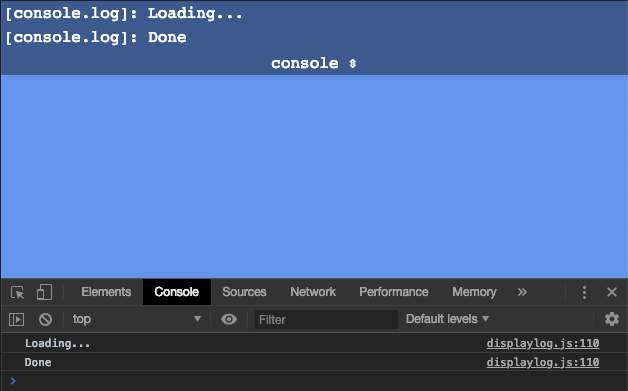
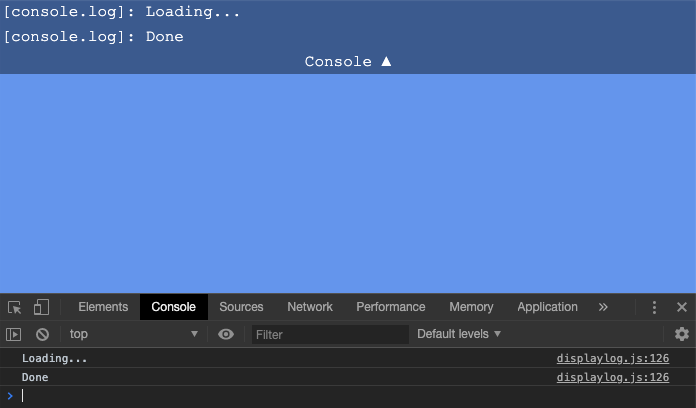
fontFamily support & Cosmetics

diff --git a/dist/displaylog.min.js b/dist/displaylog.min.js
@@ -1,1 +1,1 @@
-function _typeof(n){return(_typeof="function"==typeof Symbol&&"symbol"==typeof Symbol.iterator?function(n){return typeof n}:function(n){return n&&"function"==typeof Symbol&&n.constructor===Symbol&&n!==Symbol.prototype?"symbol":typeof n})(n)}function _defineProperty(n,o,e){return o in n?Object.defineProperty(n,o,{value:e,enumerable:!0,configurable:!0,writable:!0}):n[o]=e,n}!function(n,o){var e,t,r,i,c,l,a,f,u,d,p,s,y,g;void 0!==n&&(n.displayLog=(t={bgColor:"rgba(0, 0, 0, 0.4)",textColor:"#fff",fontSize:"1em",padding:"0.5vw",maxHeight:"30vh",closable:!0},_defineProperty(e={},"log",console.log),_defineProperty(e,"info",console.info),_defineProperty(e,"warn",console.warn),_defineProperty(e,"error",console.error),_defineProperty(e,"clear",console.clear),r=e,i=function(n){var o=c("div");return Object.assign(o.style,{color:n.textColor,backgroundColor:n.bgColor,fontSize:n.fontSize,width:"100vw",position:"fixed",top:"0",overflow:"auto",maxHeight:n.maxHeight,zIndex:Number.MAX_SAFE_INTEGER}),n.closable&&l(o,n),o},c=function(n){return document.createElement(n)},l=function(n,o){var e=c("div");Object.assign(e.style,{textAlign:"center",paddingTop:o.padding,paddingBottom:o.padding}),e.innerHTML="console &#8691;",e.addEventListener("click",a(n)),n.appendChild(e)},a=function(n){return function(){return f(n)?d(n):u(n)}},f=function(n){return"-"===n.style.top.slice(0,1)},u=function(n){return n.style.top=n.scrollHeight/n.children.length-n.clientHeight+"px"},d=function(n){return n.style.top="0"},p=function(n){return function(o,e){return function(){for(var t=arguments.length,r=new Array(t),i=0;i<t;i++)r[i]=arguments[i];y.apply(void 0,[o].concat(r)),g.apply(void 0,[n,o,e].concat(r))}}},s=function(n){return function(o,e){return function(){y(o),n.innerHTML="",e.closable&&l(n,e)}}},y=function(n){for(var o=arguments.length,e=new Array(o>1?o-1:0),t=1;t<o;t++)e[t-1]=arguments[t];return r[n]&&r[n].apply(console,e)},g=function(n,o,e){var t=c("div");t.style.padding=e.padding;for(var r=arguments.length,i=new Array(r>3?r-3:0),l=3;l<r;l++)i[l-3]=arguments[l];var a=i.reduce(function(n,o){return"".concat(n," ").concat("object"===_typeof(o)?JSON.stringify(o):o)});t.textContent="[console.".concat(o,"]: ").concat(a),e.closable?(n.insertBefore(t,n.children[n.children.length-1]),f(n)&&u(n)):n.appendChild(t),n.scrollTop=n.scrollHeight-n.clientHeight},{init:function(n){return function(n){var o={...t,...n},e=i(o);document.body.appendChild(e);var r=p(e);console.warn=r("warn",o),console.log=r("log",o),console.info=r("info",o),console.error=r("error",o),console.clear=s(e)("clear",o)}(n)}}))}(window);
+"use strict";function _typeof(n){"@babel/helpers - typeof";return(_typeof="function"==typeof Symbol&&"symbol"==typeof Symbol.iterator?function(n){return typeof n}:function(n){return n&&"function"==typeof Symbol&&n.constructor===Symbol&&n!==Symbol.prototype?"symbol":typeof n})(n)}function _defineProperty(n,o,e){return o in n?Object.defineProperty(n,o,{value:e,enumerable:!0,configurable:!0,writable:!0}):n[o]=e,n}!function(n,o){void 0!==n&&(n.displayLog=function(){var n,o={bgColor:"rgba(0, 0, 0, 0.4)",textColor:"#fff",fontSize:"1em",fontFamily:"Courier New, sans-serif",padding:"0.5vw",maxHeight:"30vh",closable:!0},e=(_defineProperty(n={},"log",console.log),_defineProperty(n,"info",console.info),_defineProperty(n,"warn",console.warn),_defineProperty(n,"error",console.error),_defineProperty(n,"clear",console.clear),n),t=function(n){var o=r("div");return Object.assign(o.style,{color:n.textColor,backgroundColor:n.bgColor,fontSize:n.fontSize,fontFamily:n.fontFamily,width:"100vw",position:"fixed",top:"0",left:"0",overflow:"auto",maxHeight:n.maxHeight,zIndex:Number.MAX_SAFE_INTEGER}),n.closable&&i(o,n),o},r=function(n){return document.createElement(n)},i=function(n,o){var e=r("div");Object.assign(e.style,{textAlign:"center",cursor:"pointer",paddingTop:o.padding,paddingBottom:o.padding}),e.innerHTML="Console &#x25B2;",e.addEventListener("click",c(n,e)),n.appendChild(e)},c=function(n,o){return function(){return l(n)?a(n,o):f(n,o)}},l=function(n){return"-"===n.style.top.slice(0,1)},f=function(n,o){o.innerHTML="Console &#x25BC;",n.style.top=n.scrollHeight/n.children.length-n.clientHeight+"px"},a=function(n,o){o.innerHTML="Console &#x25B2;",n.style.top="0"},u=function(n){return function(o){return function(e){return function(){for(var t=arguments.length,r=new Array(t),i=0;i<t;i++)r[i]=arguments[i];d.apply(void 0,[e].concat(r)),p.apply(void 0,[n,e,o].concat(r))}}}},s=function(n){return function(o){return function(e){return function(){d(e),n.innerHTML="",o.closable&&i(n,o)}}}},d=function(n){for(var o=arguments.length,t=new Array(o>1?o-1:0),r=1;r<o;r++)t[r-1]=arguments[r];return e[n]&&e[n].apply(console,t)},p=function(n,o,e){var t=r("div");t.style.padding=e.padding;for(var i=arguments.length,c=new Array(i>3?i-3:0),a=3;a<i;a++)c[a-3]=arguments[a];var u=c.reduce(function(n,o){return"".concat(n," ").concat("object"===_typeof(o)?JSON.stringify(o):o)});t.textContent="[console.".concat(o,"]: ").concat(u),e.closable?(n.insertBefore(t,n.children[n.children.length-1]),l(n)&&f(n)):n.appendChild(t),n.scrollTop=n.scrollHeight-n.clientHeight};return{init:function(n){return function(n){var e={...o,...n},r=t(e);if(!document.body)throw new Error("Please insert this script after <body> tag");document.body.appendChild(r);var i=u(r)(e);console.warn=i("warn"),console.log=i("log"),console.info=i("info"),console.error=i("error"),console.clear=s(r)(e)("clear")}(n)}}}())}(window);

diff --git a/src/index.js b/src/index.js
@@ -20,10 +20,14 @@
         bgColor: 'rgba(0, 0, 0, 0.4)',
         textColor: '#fff',
         fontSize: '1em',
+        fontFamily: 'Courier New, sans-serif',
         padding: '0.5vw',
         maxHeight: '30vh',
         closable: true
     };
+
+    const openedToggleTitle = 'Console &#x25B2;';
+    const closedToggleTitle = 'Console &#x25BC;';
 
     const originalConsole = {
         [TYPE_LOG]: console.log,
@@ -37,7 +41,11 @@
         const mergedSettings = {...settings, ...customSettings};
 
         const panel = createPanel(mergedSettings);
-        document.body.appendChild(panel);
+        if (document.body) {
+            document.body.appendChild(panel);
+        } else {
+            throw new Error('Please insert this script after <body> tag');
+        }
 
         const logOnPanelWithSettings = log(panel)(mergedSettings);
         console.warn = logOnPanelWithSettings(TYPE_WARN);
@@ -54,9 +62,11 @@
             color: settings.textColor,
             backgroundColor: settings.bgColor,
             fontSize: settings.fontSize,
+            fontFamily: settings.fontFamily,
             width: '100vw',
             position: 'fixed',
             top: '0',
+            left: '0',
             overflow: 'auto',
             maxHeight: settings.maxHeight,
             zIndex: Number.MAX_SAFE_INTEGER
@@ -76,24 +86,30 @@
 
         Object.assign(toggle.style, {
             textAlign: 'center',
+            cursor: 'pointer',
             paddingTop: settings.padding,
             paddingBottom: settings.padding
         });
 
-        toggle.innerHTML = 'console &#8691;';
-        toggle.addEventListener('click', togglePanel(panel));
+        toggle.innerHTML = openedToggleTitle;
+        toggle.addEventListener('click', togglePanel(panel, toggle));
 
         panel.appendChild(toggle);
     };
 
-    const togglePanel = panel => () => isClosed(panel) ? open(panel) : close(panel);
+    const togglePanel = (panel, toggle) => () => isClosed(panel) ? open(panel, toggle) : close(panel, toggle);
 
     const isClosed = panel => panel.style.top.slice(0, 1) === '-';
 
-    const close = panel =>
+    const close = (panel, toggle) => {
+        toggle.innerHTML = closedToggleTitle;
         panel.style.top = panel.scrollHeight / panel.children.length - panel.clientHeight + 'px';
+    }
 
-    const open = panel => panel.style.top = '0';
+    const open = (panel, toggle) => {
+        toggle.innerHTML = openedToggleTitle;
+        panel.style.top = '0';
+    }
 
     const log = panel => settings => logType => (...args) => {
         originalLog(logType, ...args);

diff --git a/index.html b/index.html
@@ -1,24 +1,20 @@
 <!DOCTYPE html>
 <html lang="en">
-<head>
-    <meta charset="UTF-8">
+  <head>
+    <meta charset="UTF-8" />
     <title>Display.log</title>
     <style>
-        body {
-            margin: 0;
-            padding: 0;
-            background-color: cornflowerblue;
-            font-family: Courier, sans-serif;
-        }
+      body {
+        background-color: cornflowerblue;
+      }
     </style>
-</head>
-<body>
-<script src="dist/displaylog.js"></script>
-<script>
+  </head>
+  <body>
+  <script src="dist/displaylog.min.js"></script>
+  <script>
     displayLog.init();
     console.log('Loading...');
     console.log('Done');
-    //console.clear();
-</script>
-</body>
+  </script>
+  </body>
 </html>

diff --git a/README.md b/README.md
@@ -1,6 +1,6 @@
 # Display.log
 
-Display.log duplicates your console messages over the page.
+Display.log mirrors your console messages over the page.
 
 Can be useful for debugging on mobile phones or if you want to save some screen space by keeping developer console closed.
 
@@ -8,7 +8,7 @@ Can be useful for debugging on mobile phones or if you want to save some screen 
 
 ## Usage
 
-Just paste the following code snippet inside the header of your page.
+Paste the following code snippet after the body tag of your page.
 
 ```html
 <script src="https://cdn.jsdelivr.net/gh/aleksandr-novikov/display-log@1.0.0/dist/displaylog.min.js"></script>
